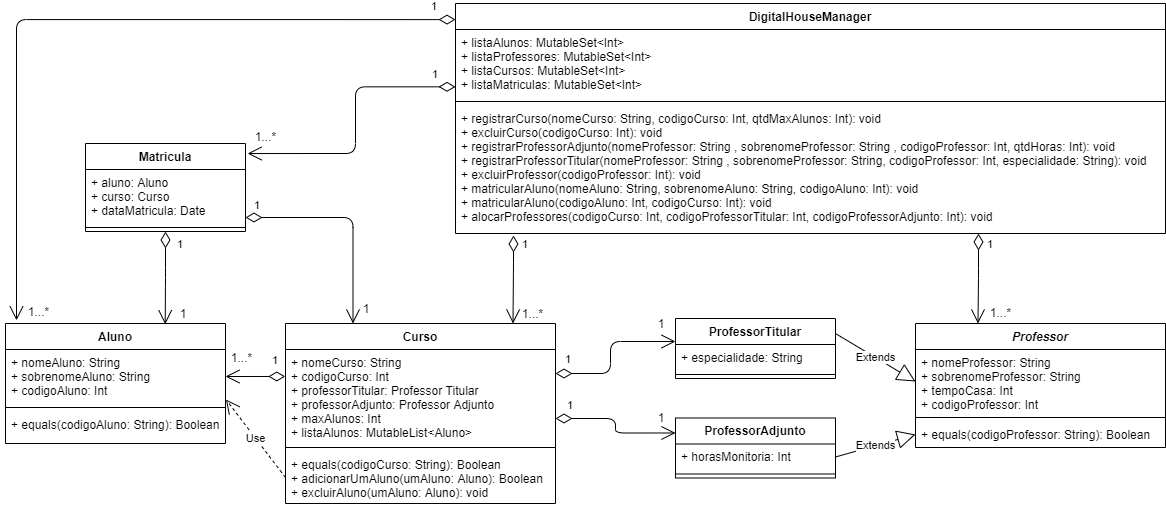
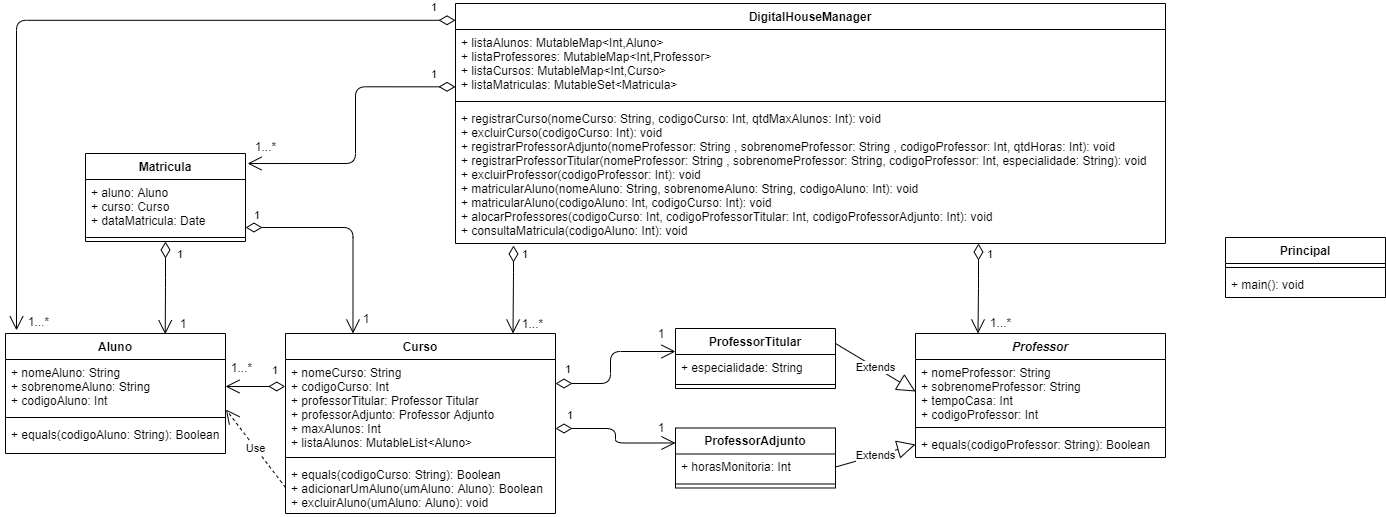
Parte K - Criação do método consultaMatricula

diff --git a/src/br/digital/com/DigitalHouseManager.kt b/src/br/digital/com/DigitalHouseManager.kt
@@ -4,12 +4,13 @@ class DigitalHouseManager(
         var listaAlunos: MutableMap<Int,Aluno> = mutableMapOf(),
         var listaProfessores: MutableMap<Int,Professor> = mutableMapOf(),
         var listaCursos: MutableMap<Int,Curso> = mutableMapOf(),
-        var listaMatriculas: MutableSet<Matricula> = mutableSetOf()) {
+        var listaMatriculas: MutableSet<Matricula> = mutableSetOf()
+){
 
     fun registrarCurso(nomeCurso: String, codigoCurso: Int, qtdMaxAlunos: Int){
         if (codigoCurso in listaCursos) println("Este código de curso já existe!")
         else {
-            var cursoNovo = Curso(nomeCurso, codigoCurso, qtdMaxAlunos)
+            val cursoNovo = Curso(nomeCurso, codigoCurso, qtdMaxAlunos)
             listaCursos.put(codigoCurso, cursoNovo)
             println("Curso cadastrado com sucesso!")
         }
@@ -26,7 +27,7 @@ class DigitalHouseManager(
     fun registrarProfessorAdjunto(nomeProfessor: String , sobrenomeProfessor: String , codigoProfessor: Int, qtdHoras: Int){
         if (codigoProfessor in listaProfessores) println("Este código de professor já existe!")
         else {
-            var novoProfAdjunto = ProfessorAdjunto(nomeProfessor, sobrenomeProfessor, 0, codigoProfessor, qtdHoras)
+            val novoProfAdjunto = ProfessorAdjunto(nomeProfessor, sobrenomeProfessor, 0, codigoProfessor, qtdHoras)
             listaProfessores.put(codigoProfessor, novoProfAdjunto)
             println("Professor adjunto cadastrado com sucesso!")
         }
@@ -35,7 +36,7 @@ class DigitalHouseManager(
     fun registrarProfessorTitular(nomeProfessor: String , sobrenomeProfessor: String, codigoProfessor: Int, especialidade: String){
         if (codigoProfessor in listaProfessores) println("Este código de professor já existe!")
         else {
-            var novoProfTitular = ProfessorTitular(nomeProfessor, sobrenomeProfessor, 0, codigoProfessor, especialidade)
+            val novoProfTitular = ProfessorTitular(nomeProfessor, sobrenomeProfessor, 0, codigoProfessor, especialidade)
             listaProfessores.put(codigoProfessor, novoProfTitular)
             println("Professor titular cadastrado com sucesso!")
         }
@@ -49,34 +50,50 @@ class DigitalHouseManager(
         else println("Este código de professor não existe!")
     }
 
-    fun registrarAluno(nomeAluno: String, sobrenomeAluno: String, codigoAluno: Int){
+    fun matricularAluno(nomeAluno: String, sobrenomeAluno: String, codigoAluno: Int){
         if (codigoAluno in listaAlunos) println("Este código de aluno já existe!")
         else {
-            var novoAluno = Aluno(nomeAluno, sobrenomeAluno, codigoAluno)
+            val novoAluno = Aluno(nomeAluno, sobrenomeAluno, codigoAluno)
             listaAlunos.put(codigoAluno, novoAluno)
             println("Aluno cadastrado com sucesso!")
         }
     }
 
     fun matricularAluno(codigoAluno: Int, codigoCurso: Int){
-        if (codigoAluno in listaAlunos && codigoCurso in listaCursos && listaCursos[codigoCurso]!!.listaAlunos.size < listaCursos[codigoCurso]!!.maxAlunos) {
-            var novaMatricula = Matricula(listaAlunos[codigoAluno], listaCursos[codigoCurso])
-            listaMatriculas.add(novaMatricula)
-            listaCursos[codigoCurso]!!.listaAlunos.add(listaAlunos[codigoAluno]!!)
-            println("Matrícula realizada com sucesso! Número de alunos nesse curso: ${listaCursos[codigoCurso]!!.listaAlunos.size}")
-        }
-        else if (codigoAluno in listaAlunos && codigoCurso in listaCursos && listaCursos[codigoCurso]!!.listaAlunos.size == listaCursos[codigoCurso]!!.maxAlunos) {
-            println("Não foi possível realizar a matrícula. Não há vagas disponíveis!")
+        if (codigoAluno in listaAlunos && codigoCurso in listaCursos) {
+            if (with (listaCursos.getValue(codigoCurso)) { listaAlunos.size < maxAlunos }) {
+                val novaMatricula = Matricula(listaAlunos.getValue(codigoAluno), listaCursos.getValue(codigoCurso))
+                listaMatriculas.add(novaMatricula)
+                listaCursos.getValue(codigoCurso).listaAlunos.add(listaAlunos.getValue(codigoAluno))
+                println("Matrícula realizada com sucesso! Número de alunos nesse curso: ${listaCursos.getValue(codigoCurso).listaAlunos.size}")
+            }
+            else println("Não foi possível realizar a matrícula. Não há vagas disponíveis!")
         }
         else println("Codigo de aluno ou curso não encontrado!")
     }
 
     fun alocarProfessores(codigoCurso: Int, codigoProfessorTitular: Int, codigoProfessorAdjunto: Int){
-        if(codigoCurso in listaCursos && codigoProfessorTitular in listaProfessores && codigoProfessorAdjunto in listaProfessores) {
-            listaCursos[codigoCurso]!!.professorTitular = listaProfessores[codigoProfessorTitular] as ProfessorTitular
-            listaCursos[codigoCurso]!!.professorAdjunto = listaProfessores[codigoProfessorAdjunto] as ProfessorAdjunto
-
+        when (codigoCurso in listaCursos && codigoProfessorTitular in listaProfessores && codigoProfessorAdjunto in listaProfessores) {
+            true && true && true -> {
+                with (listaCursos.getValue(codigoCurso)) {
+                    professorTitular = listaProfessores[codigoProfessorTitular] as ProfessorTitular
+                    professorAdjunto = listaProfessores[codigoProfessorAdjunto] as ProfessorAdjunto
+                }
+                println("Professores alocados com sucesso!")
+            }
+            false && true && true -> println("Código de curso inválido!")
+            true && false && true -> println("Código de professor titular inválido!")
+            true && true && false -> println("Código de professor adjunto inválido!")
         }
     }
-    
+
+    fun consultaMatricula(codigoAluno: Int) {
+        if (codigoAluno in listaAlunos) {
+            val listaCursosDesseAluno: MutableList<String> = mutableListOf()
+            listaMatriculas.forEach { if (it.aluno.codigoAluno == codigoAluno) listaCursosDesseAluno.add(it.curso.nomeCurso) }
+            println("Olá ${listaAlunos.getValue(codigoAluno).nomeAluno}! Você está matriculado nesse(s) curso(s): ${listaCursosDesseAluno}")
+        }
+        else println("Código de aluno inválido")
+    }
+
 }

diff --git a/src/br/digital/com/Principal.kt b/src/br/digital/com/Principal.kt
@@ -5,28 +5,48 @@ fun main() {
     var dhmng = DigitalHouseManager()
 
     with(dhmng) {
-
+        println("----- Registro dos professores -----")
         registrarProfessorTitular("Vishen", "Lakhiani", 1, "Personal growth")
         registrarProfessorTitular("Jim", "Kwik", 2, "Brain")
         registrarProfessorAdjunto("Jon", "Butcher", 3, 8)
         registrarProfessorAdjunto("Missy", "Butcher", 4, 6)
 
+        println("\n----- Registro dos cursos -----")
         registrarCurso("Full Stack", 20001, 3)
         registrarCurso("Android", 20002, 2)
 
-        registrarAluno("Marina", "Saito", 1000)
-        registrarAluno("Zé", "Silva", 1001)
-        registrarAluno("Fulano", "de Tal", 1002)
+        println("\n----- Registro dos alunos -----")
+        matricularAluno("Marina", "Saito", 1000)
+        matricularAluno("Zé", "Silva", 1001)
+        matricularAluno("Fulano", "de Tal", 1002)
 
+        println("\n----- Alocação dos professores aos cursos -----")
         alocarProfessores(20001, 1, 3)
         alocarProfessores(20002, 2, 4)
 
+        println("\n----- Matrícula dos alunos nos cursos -----")
         matricularAluno(1000, 20001)
         matricularAluno(1001, 20001)
-
         matricularAluno(1002, 20002)
         matricularAluno(1000, 20002)
         matricularAluno(1001, 20002)
+
+        println("\n----- Consulta de cursos em que o aluno está matriculado -----")
+        consultaMatricula(1000)
+        consultaMatricula(1002)
+        consultaMatricula(1005)
+
+        println("\n----- Exclusão de curso -----")
+        excluirCurso(20002)
+        excluirCurso(20002)
+
+        println("\n----- Exclusão de professor -----")
+        excluirProfessor(3)
+        excluirProfessor(3)
+
     }
+
+
+
 
 }

diff --git a/src/br/digital/com/Matricula.kt b/src/br/digital/com/Matricula.kt
@@ -2,5 +2,9 @@ package br.digital.com
 
 import java.util.*
 
-class Matricula(var aluno: Aluno?, var curso: Curso?, var dataMatricula: Date = Date()) {
+class Matricula(var aluno: Aluno, var curso: Curso, var dataMatricula: Date = Date()) {
+
+    override fun toString(): String {
+        return "Matricula(aluno=${aluno.nomeAluno}, curso=${curso.nomeCurso})"
+    }
 }

diff --git a/src/br/digital/com/Curso.kt b/src/br/digital/com/Curso.kt
@@ -30,4 +30,9 @@ class Curso(
         listaAlunos.remove(umAluno)
     }
 
+    override fun toString(): String {
+        return "Curso(nome='$nomeCurso', professorTitular=$professorTitular, professorAdjunto=$professorAdjunto)"
+    }
+
+
 }

diff --git a/src/br/digital/com/Professor.kt b/src/br/digital/com/Professor.kt
@@ -13,4 +13,9 @@ open class Professor(var nomeProfessor: String, var sobrenomeProfessor: String, 
         return true
     }
 
+    override fun toString(): String {
+        return "Professor(nome='$nomeProfessor')"
+    }
+
+
 }

diff --git a/src/br/digital/com/Aluno.kt b/src/br/digital/com/Aluno.kt
@@ -13,4 +13,9 @@ class Aluno(var nomeAluno: String, var sobrenomeAluno: String, var codigoAluno: 
         return true
     }
 
+    override fun toString(): String {
+        return "Aluno(nome='$nomeAluno')"
+    }
+
+
 }
